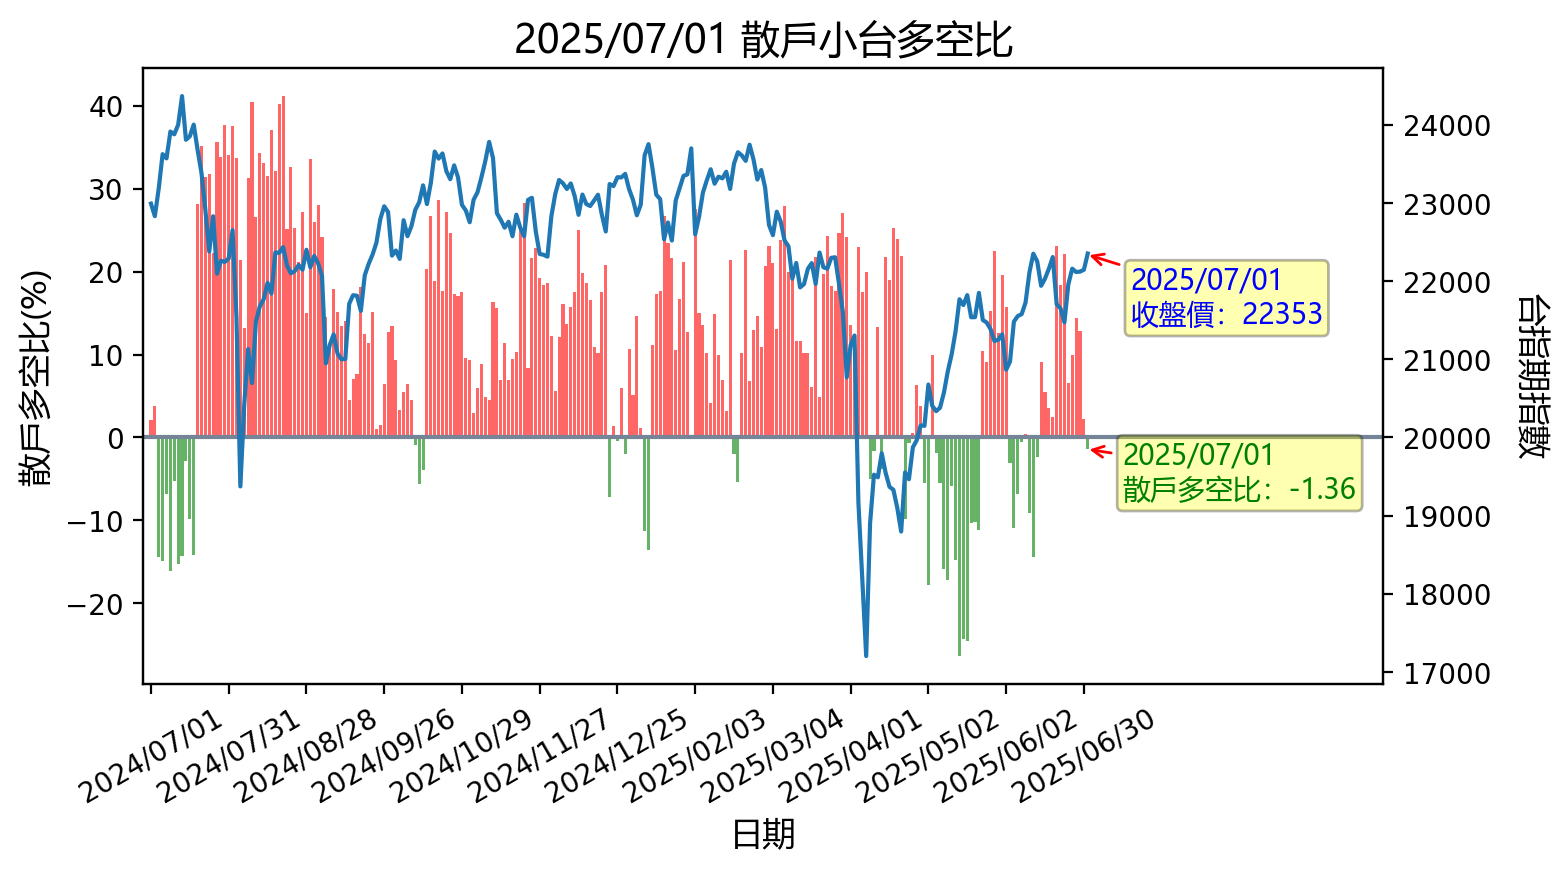
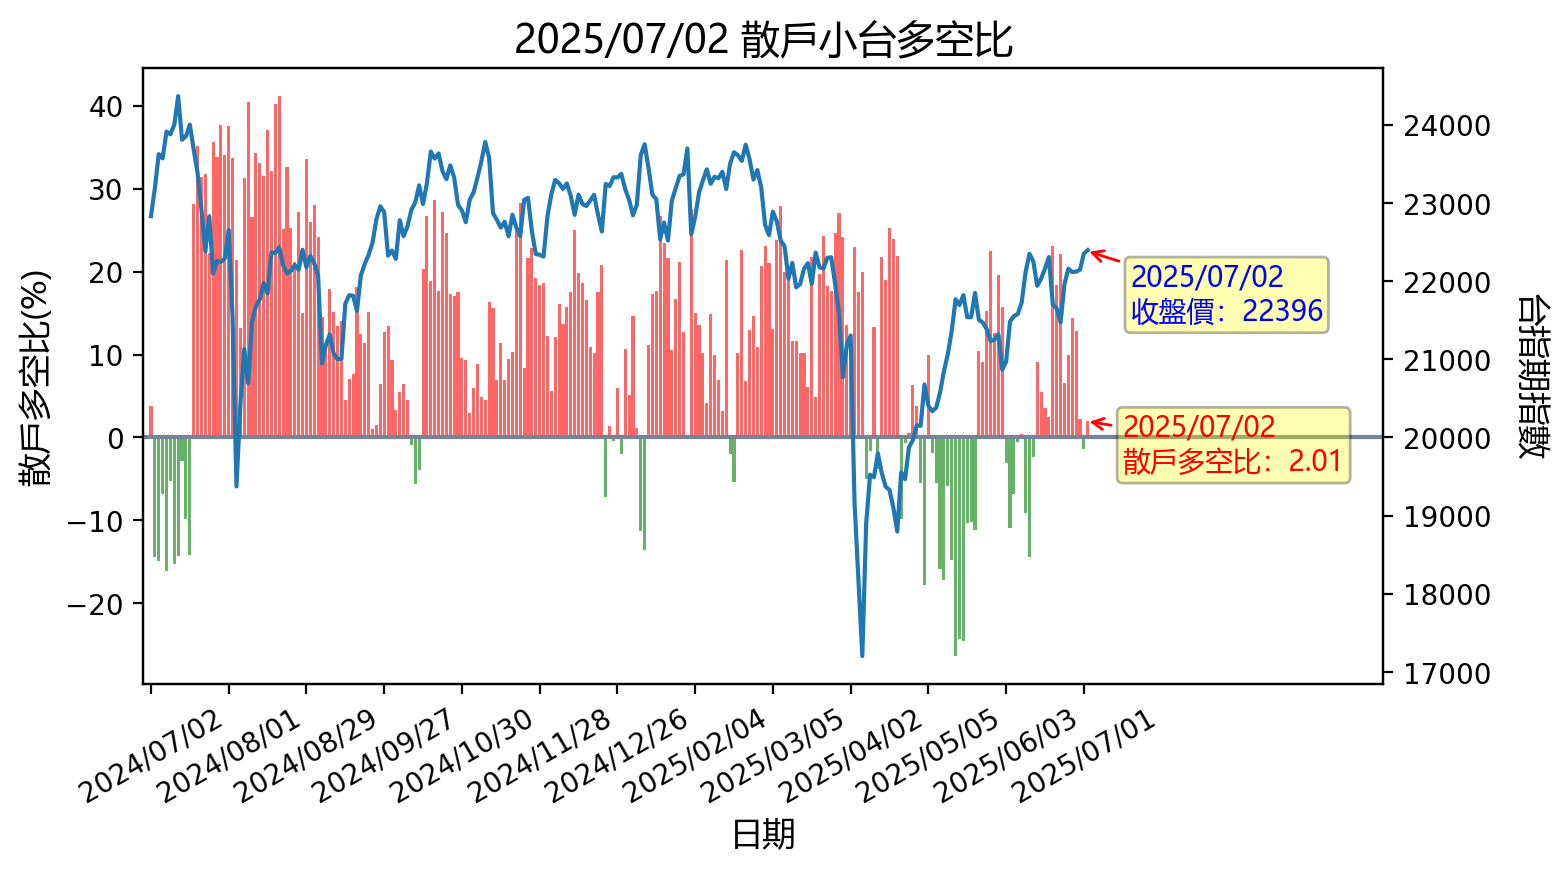
更新時間: Wed Jul  2 16:42:40 CST 2025

diff --git a/README.md b/README.md
@@ -1,12 +1,12 @@
-## 20250701 台指期「預估換倉成本」
+## 20250702 台指期「預估換倉成本」
 ![](images/txfcost.png)
 
-## 20250701 台指期「散戶小台多空比」
+## 20250702 台指期「散戶小台多空比」
 ![](images/bbiri.png)
 
-## 20250701 台指選擇權「Put/Call Ratios」
+## 20250702 台指選擇權「Put/Call Ratios」
 ![](images/pcratio.png)
 
-## 20250701 台指期「大額交易人」
+## 20250702 台指期「大額交易人」
 ![](images/blocktrade.png)
 
